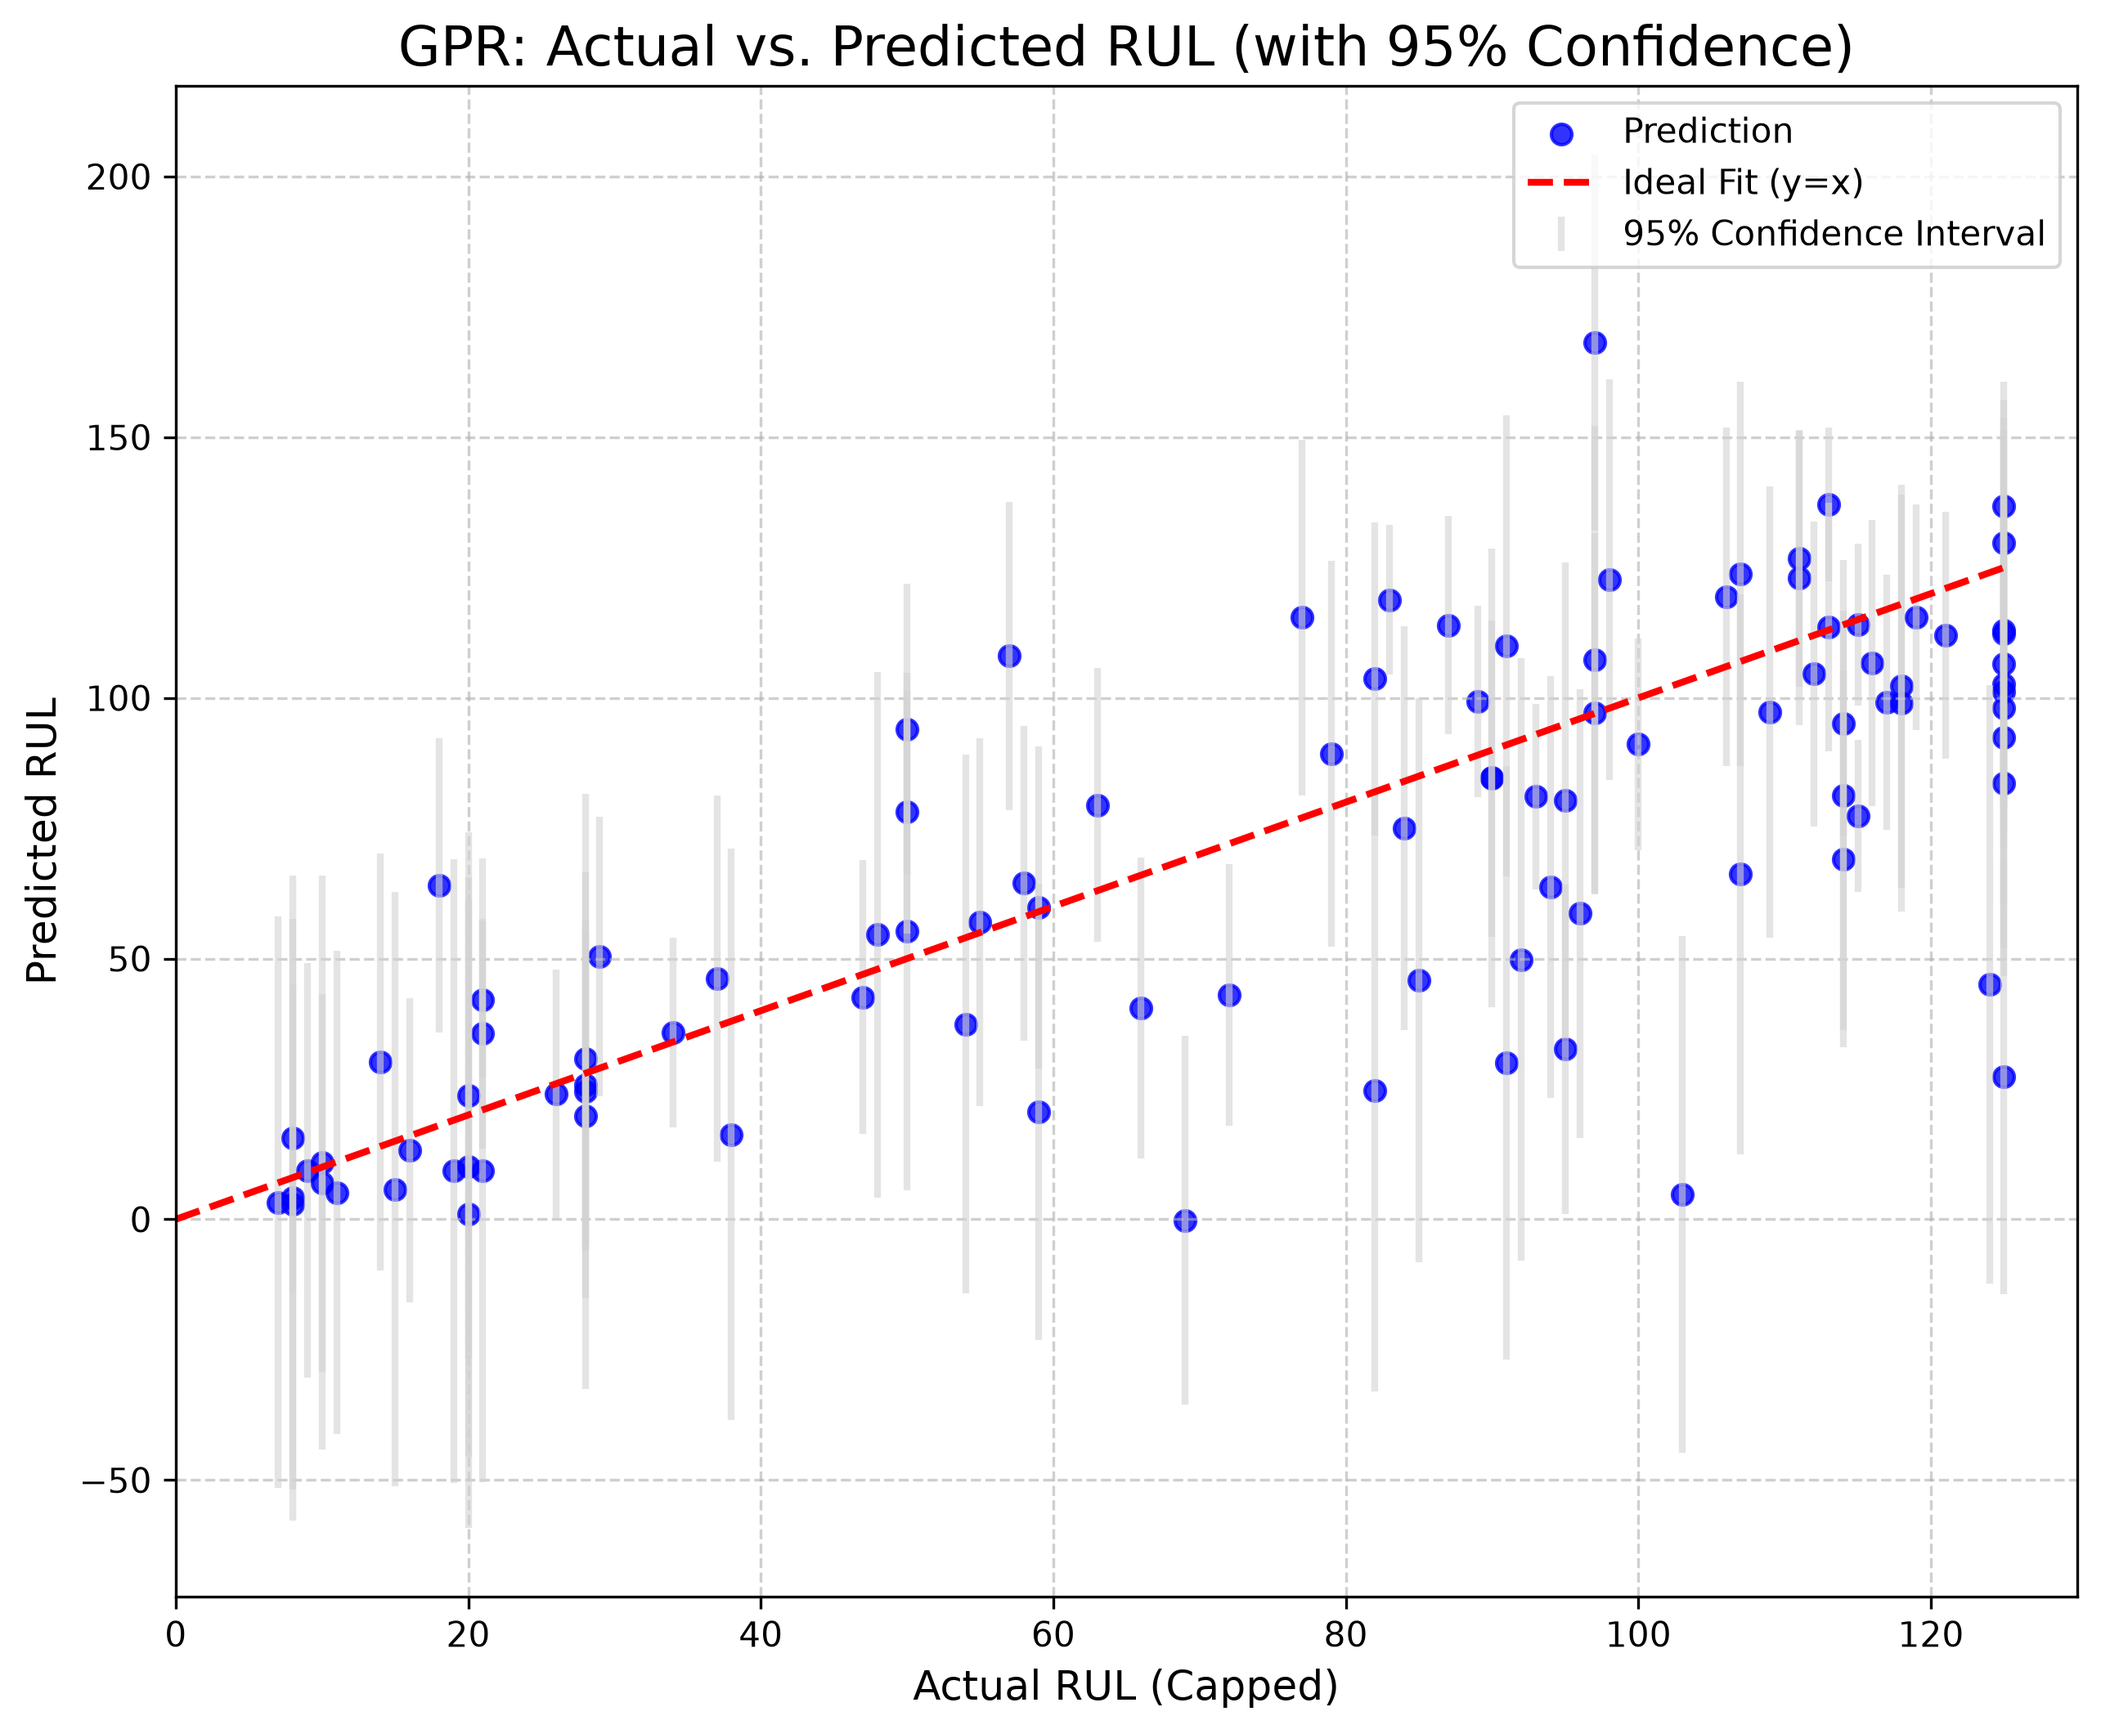
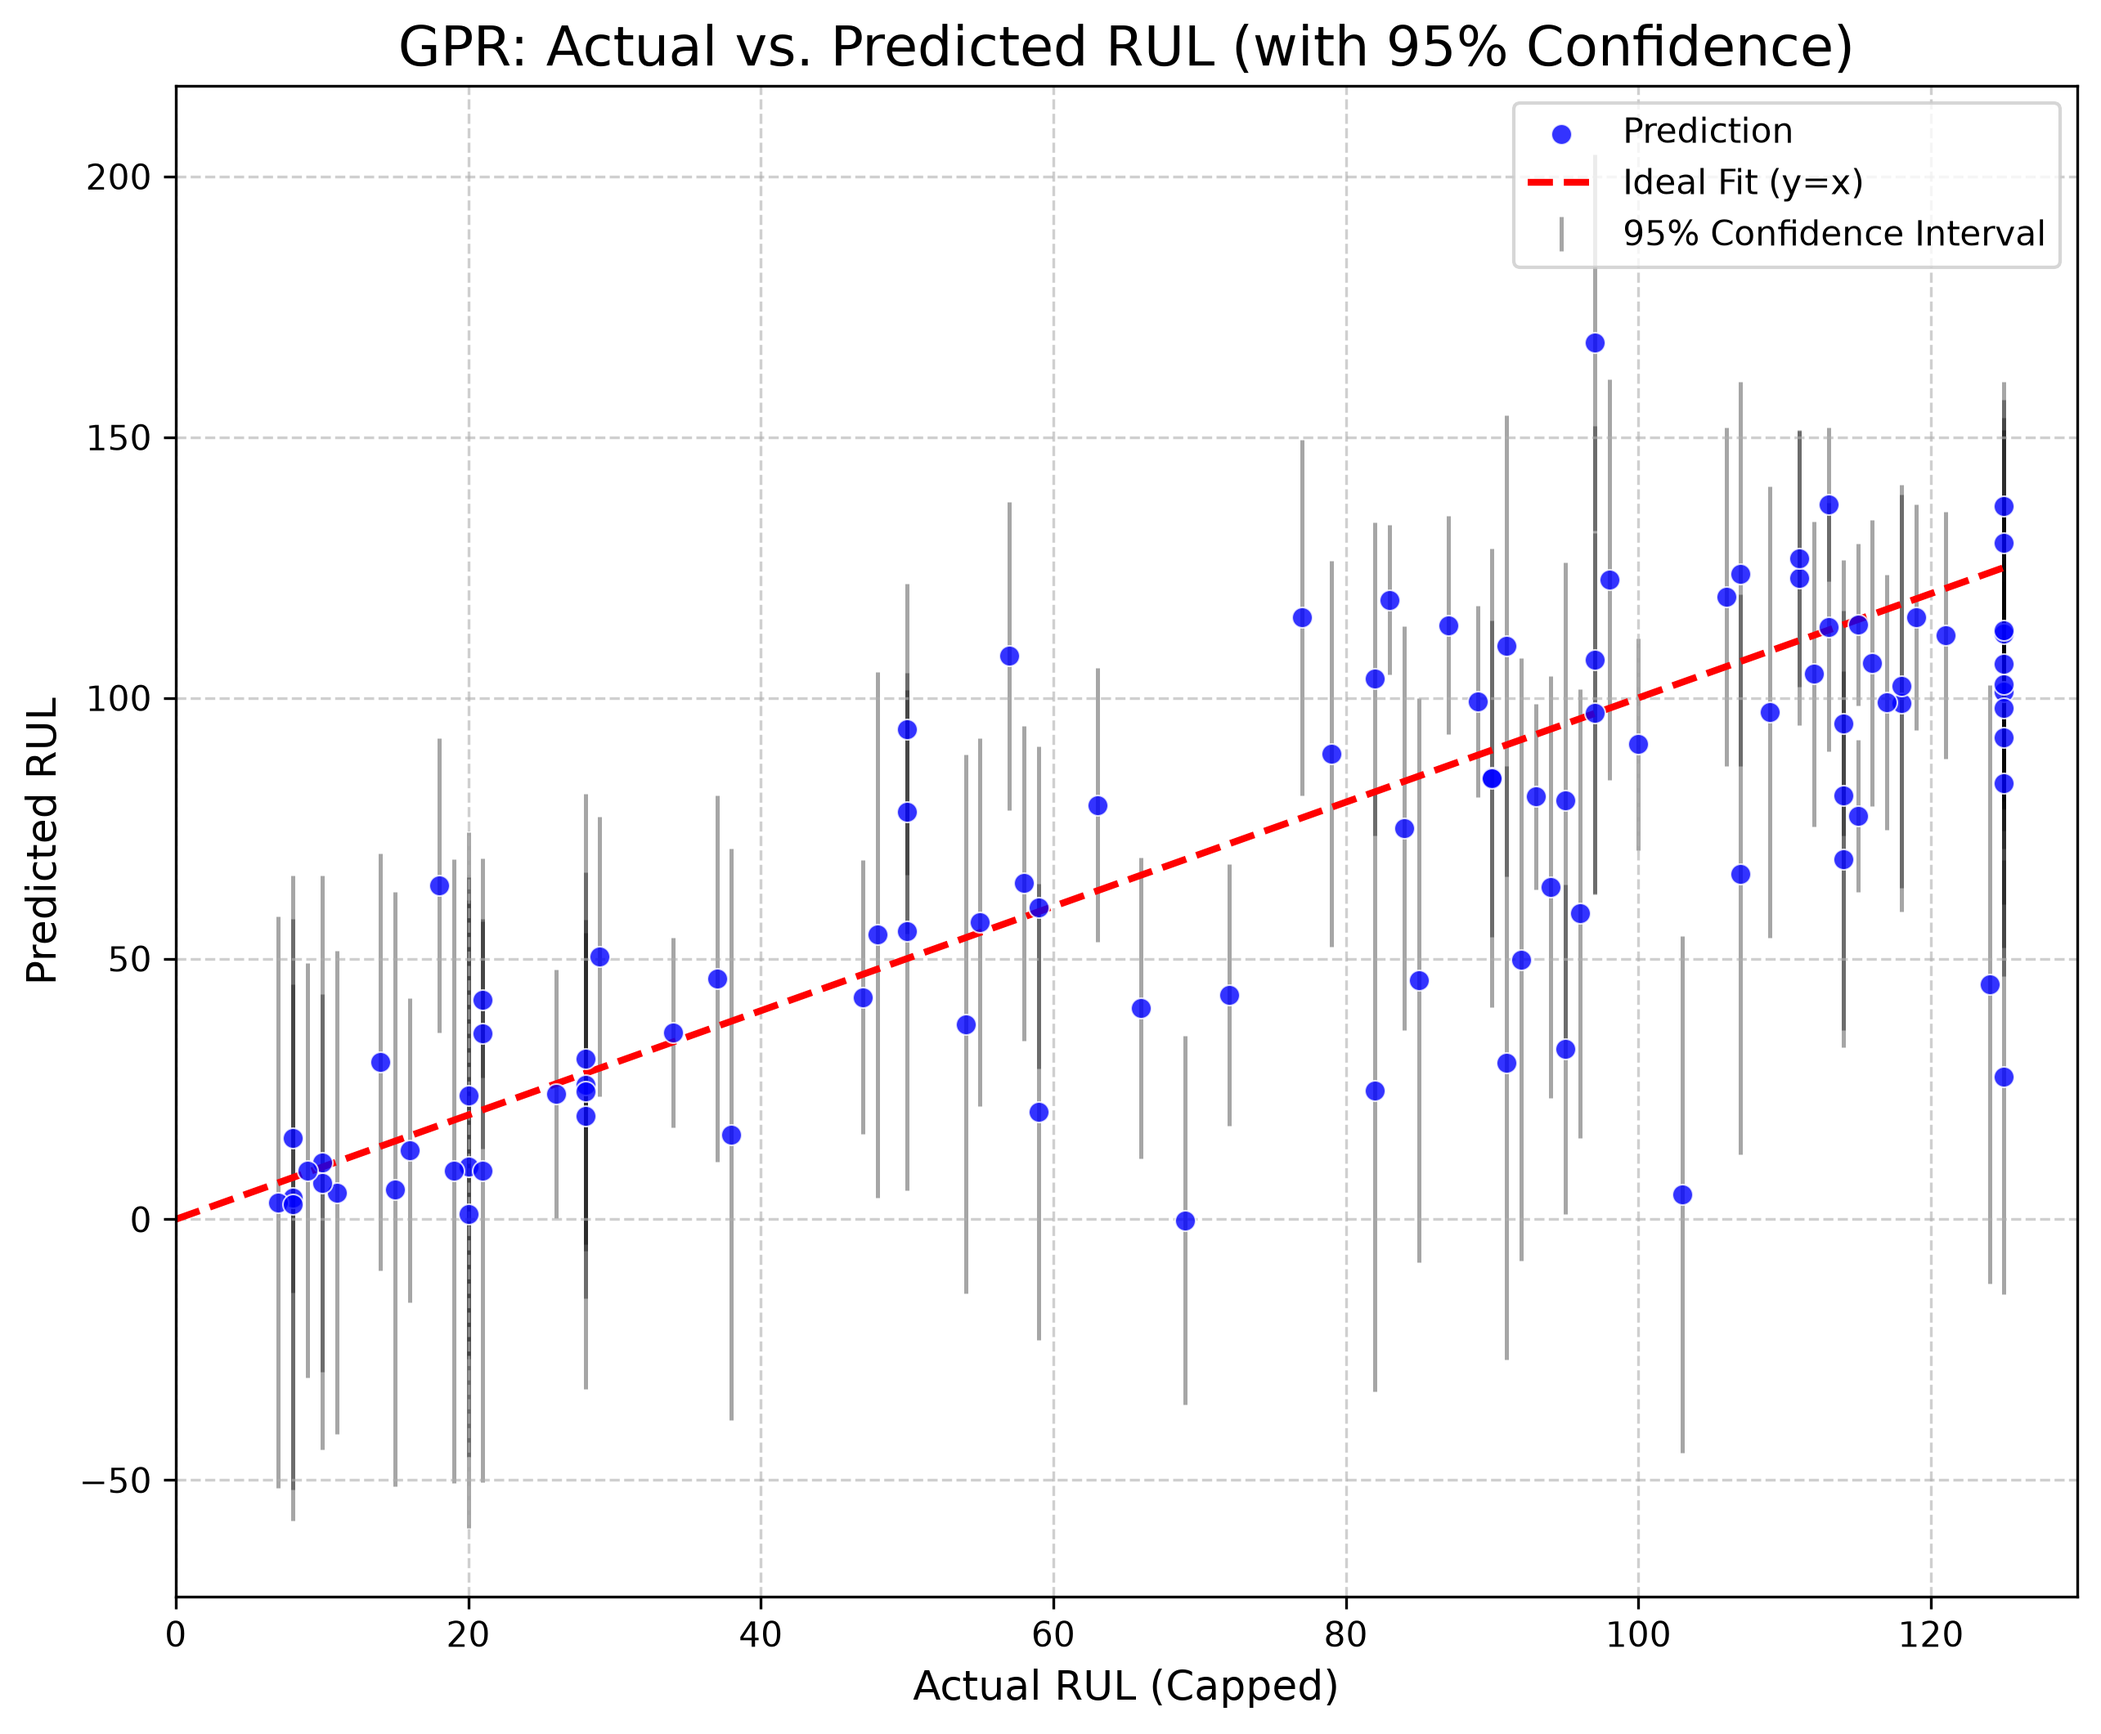
gpr figure: black confidence intervals for better contrast

diff --git a/gpr_RBF_whitenoise.py b/gpr_RBF_whitenoise.py
@@ -200,13 +200,16 @@ if __name__ == '__main__':
     plt.errorbar(y_test_capped, y_pred, 
                  yerr=confidence, 
                  fmt='none', 
-                 ecolor='lightgray', 
-                 elinewidth=2, 
-                 capsize=0, 
-                 alpha=0.6, 
-                 label='95% Confidence Interval')
+                 ecolor='black',
+                 elinewidth=1.2,
+                 capsize=0,
+                 alpha=0.35,
+                 label='95% Confidence Interval',
+                 zorder=1)  # drawn behind the points
 
-    plt.scatter(y_test_capped, y_pred, alpha=0.8, c='blue', label='Prediction')
+    plt.scatter(y_test_capped, y_pred, alpha=0.8, c='blue',
+                edgecolors='white', linewidths=0.5,  # white outline separates points from the bars
+                label='Prediction', zorder=3)
 
     # Plot the ideal 45-degree line
     plt.plot([0, RUL_CAP], [0, RUL_CAP], 'r--', linewidth=2, label='Ideal Fit (y=x)')
